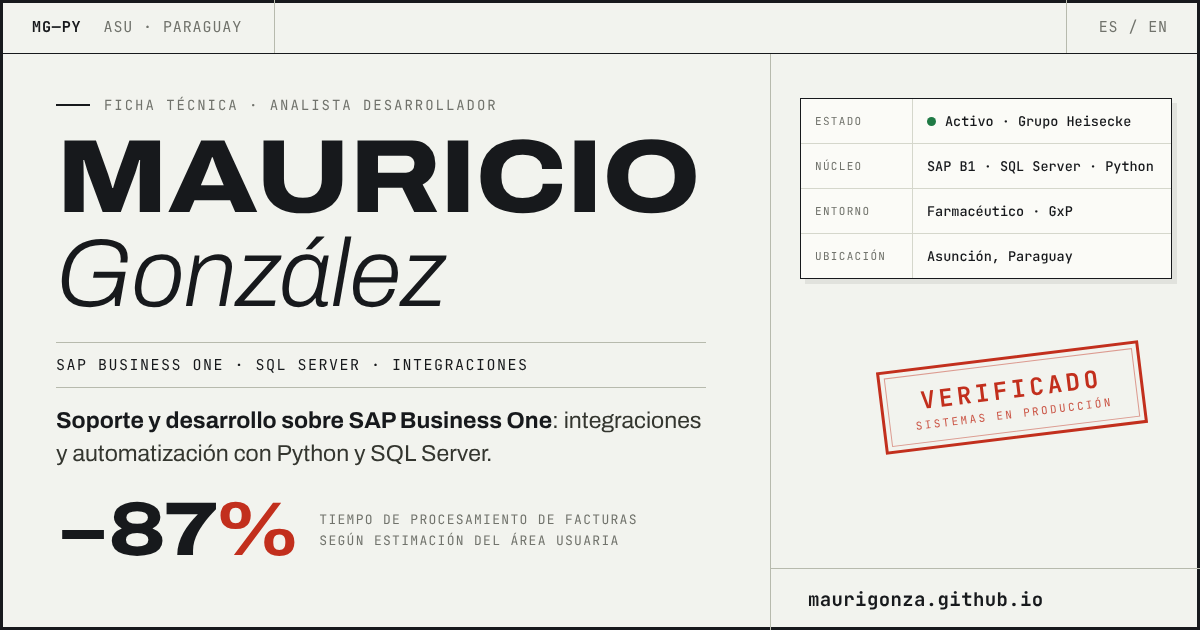
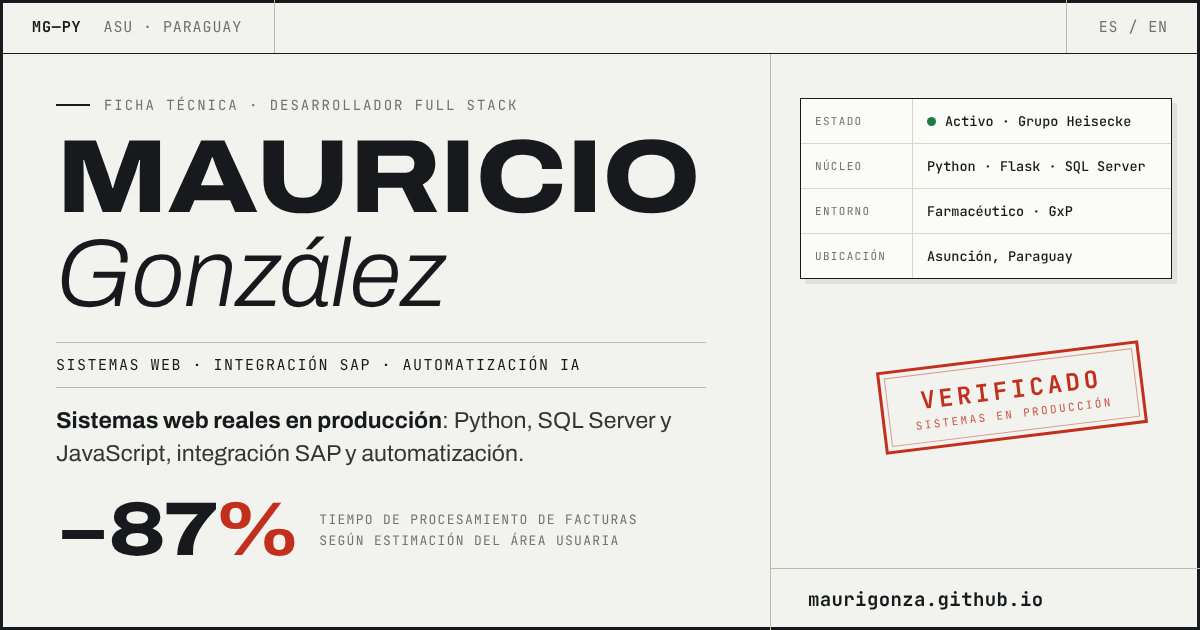
Presentar el portafolio como Desarrollador Full Stack, sin orientarlo a una oferta
La version anterior quedo inclinada a soporte SAP B1 por una oferta puntual; el portafolio tiene que mostrar el perfil general y lo especifico de cada oferta va en el correo. El perfil actual es desarrollo full stack, no infraestructura: Active Directory y seguridad quedan solo en el rol de Soporte TI. Se agrega el frontend real (HTML, CSS, JavaScript, Jinja) y la og-image pasa a v=3 para que no se use la anterior en cache.

Claude-Session: https://claude.ai/code/session_01SXFzjdiL9HggprZqT54Dce

diff --git a/index.html b/index.html
@@ -8,9 +8,9 @@
 
 <meta name="viewport" content="width=device-width, initial-scale=1.0">
 
-<title>Mauricio González — Analista Desarrollador · SAP Business One</title>
+<title>Mauricio González — Desarrollador Full Stack</title>
 
-<meta name="description" content="Analista Desarrollador en Asunción, Paraguay. Soporte y desarrollo sobre SAP Business One, SQL Server, integraciones y automatización con Python y n8n. Sistemas reales en producción.">
+<meta name="description" content="Desarrollador Full Stack en Asunción, Paraguay. Sistemas web en producción con Python, Flask, SQL Server y JavaScript: integración SAP, automatización con IA y despliegue con Docker.">
 
 
 
@@ -20,17 +20,17 @@
 
 <meta property="og:url" content="https://maurigonza.github.io/">
 
-<meta property="og:title" content="Mauricio González — Analista Desarrollador · SAP Business One">
+<meta property="og:title" content="Mauricio González — Desarrollador Full Stack">
 
-<meta property="og:description" content="Soporte y desarrollo sobre SAP Business One, integraciones y automatización. Sistemas reales en producción en una planta farmacéutica. SAP B1 · SQL Server · Python · n8n.">
+<meta property="og:description" content="Sistemas web reales en producción: backend en Python y SQL Server, interfaz web, integración SAP y automatización con IA. Python · Flask · SQL Server · JavaScript · n8n.">
 
-<meta property="og:image" content="https://maurigonza.github.io/og-image.png?v=2">
+<meta property="og:image" content="https://maurigonza.github.io/og-image.png?v=3">
 
 <meta property="og:image:width" content="1200">
 
 <meta property="og:image:height" content="630">
 
-<meta property="og:image:alt" content="Portafolio de Mauricio González — Analista Desarrollador · SAP Business One">
+<meta property="og:image:alt" content="Portafolio de Mauricio González — Desarrollador Full Stack">
 
 <meta property="og:locale" content="es_PY">
 
@@ -40,11 +40,11 @@
 
 <meta name="twitter:card" content="summary_large_image">
 
-<meta name="twitter:title" content="Mauricio González — Analista Desarrollador · SAP Business One">
+<meta name="twitter:title" content="Mauricio González — Desarrollador Full Stack">
 
-<meta name="twitter:description" content="Soporte y desarrollo sobre SAP Business One, integraciones y automatización. Sistemas reales en producción.">
+<meta name="twitter:description" content="Sistemas web reales en producción: Python, Flask, SQL Server, integración SAP y automatización con IA.">
 
-<meta name="twitter:image" content="https://maurigonza.github.io/og-image.png?v=2">
+<meta name="twitter:image" content="https://maurigonza.github.io/og-image.png?v=3">
 
 
 
@@ -646,17 +646,17 @@ body.en .en-txt{display:inline;}
 
       <div class="hero-main">
 
-        <div class="hero-eyebrow rev on"><span class="es-txt">Ficha técnica · Analista desarrollador</span><span class="en-txt">Technical dossier · Developer &amp; IT analyst</span></div>
+        <div class="hero-eyebrow rev on"><span class="es-txt">Ficha técnica · Desarrollador full stack</span><span class="en-txt">Technical dossier · Full stack developer</span></div>
 
         <h1 class="hero-name display rev on d1"><span id="scramble">Mauricio</span><br><span class="thin">González</span></h1>
 
-        <div class="hero-role rev on d2"><span class="es-txt">SAP Business One · SQL Server · Integraciones y automatización</span><span class="en-txt">SAP Business One · SQL Server · Integrations &amp; automation</span></div>
+        <div class="hero-role rev on d2"><span class="es-txt">Sistemas web · Integración SAP · Automatización IA</span><span class="en-txt">Web systems · SAP integration · AI automation</span></div>
 
         <p class="hero-desc rev on d2">
 
-          <span class="es-txt">Doy <strong>soporte y desarrollo sobre SAP Business One</strong>: integraciones, automatizaciones y consultas con Python y SQL Server, en <strong>sistemas reales en producción</strong> dentro de un entorno farmacéutico regulado. Actualmente en <strong>Grupo Heisecke / FUSQUIM</strong>, Paraguay.</span>
+          <span class="es-txt">Diseño, desarrollo y opero <strong>sistemas web reales en producción</strong>: del backend en Python y SQL Server a la interfaz, con integración SAP y automatización con IA, en un entorno farmacéutico regulado. Actualmente en <strong>Grupo Heisecke / FUSQUIM</strong>, Paraguay.</span>
 
-          <span class="en-txt">I provide <strong>SAP Business One support and development</strong>: integrations, automations and queries with Python and SQL Server, on <strong>real production systems</strong> in a regulated pharmaceutical environment. Currently at <strong>Grupo Heisecke / FUSQUIM</strong>, Paraguay.</span>
+          <span class="en-txt">I design, build and run <strong>real production web systems</strong>: from the Python and SQL Server backend to the interface, with SAP integration and AI-powered automation, in a regulated pharmaceutical environment. Currently at <strong>Grupo Heisecke / FUSQUIM</strong>, Paraguay.</span>
 
         </p>
 
@@ -694,7 +694,7 @@ body.en .en-txt{display:inline;}
 
             <div class="doc-k"><span class="es-txt">Núcleo</span><span class="en-txt">Core</span></div>
 
-            <div class="doc-v">SAP B1 · SQL Server · Python</div>
+            <div class="doc-v">Python · Flask · SQL Server</div>
 
           </div>
 
@@ -742,9 +742,9 @@ body.en .en-txt{display:inline;}
 
   <div class="strip-inner">
 
-    <span>Python / Flask</span><span>SQL Server</span><span>Docker</span><span>n8n</span><span>SAP Business One</span><span>Active Directory</span><span>NGINX</span><span>OpenAI API</span><span>GxP / FDA 21 CFR Part 11</span><span>SIFEN / eKuatia</span><span>Telegram Bot API</span>
+    <span>Python / Flask</span><span>SQL Server · T-SQL</span><span>JavaScript</span><span>HTML / CSS</span><span>Jinja</span><span>Docker</span><span>NGINX</span><span>SAP Business One</span><span>n8n</span><span>OpenAI API</span><span>SIFEN / eKuatia</span><span>Telegram Bot API</span>
 
-    <span>Python / Flask</span><span>SQL Server</span><span>Docker</span><span>n8n</span><span>SAP Business One</span><span>Active Directory</span><span>NGINX</span><span>OpenAI API</span><span>GxP / FDA 21 CFR Part 11</span><span>SIFEN / eKuatia</span><span>Telegram Bot API</span>
+    <span>Python / Flask</span><span>SQL Server · T-SQL</span><span>JavaScript</span><span>HTML / CSS</span><span>Jinja</span><span>Docker</span><span>NGINX</span><span>SAP Business One</span><span>n8n</span><span>OpenAI API</span><span>SIFEN / eKuatia</span><span>Telegram Bot API</span>
 
   </div>
 
@@ -778,9 +778,9 @@ body.en .en-txt{display:inline;}
 
       <div class="perfil-text rev-l">
 
-        <p><span class="es-txt">Soy <strong>Analista Desarrollador</strong> con más de <strong>3 años</strong> en TI, entre soporte, infraestructura y desarrollo. Mi diferencial: no me quedo en el mantenimiento — <span class="hl">construyo sistemas que la empresa usa todos los días</span>.</span><span class="en-txt">I'm a <strong>Developer &amp; IT Analyst</strong> with over <strong>3 years</strong> in IT, across support, infrastructure and development. My edge: I don't stop at maintenance — <span class="hl">I build systems the company relies on every day</span>.</span></p>
+        <p><span class="es-txt">Soy <strong>Desarrollador Full Stack</strong> con más de <strong>3 años</strong> en TI: vengo de soporte e infraestructura y hoy me dedico al desarrollo. Mi diferencial: no me quedo en el mantenimiento — <span class="hl">construyo sistemas que la empresa usa todos los días</span>.</span><span class="en-txt">I'm a <strong>Full Stack Developer</strong> with over <strong>3 years</strong> in IT: I came up through support and infrastructure and now focus on development. My edge: I don't stop at maintenance — <span class="hl">I build systems the company relies on every day</span>.</span></p>
 
-        <p><span class="es-txt">En <strong>Grupo Heisecke / FUSQUIM</strong> (planta farmacéutica en Luque) empecé en soporte TI y desde enero de 2026 trabajo como Analista Desarrollador: soporte y desarrollo sobre <strong>SAP Business One</strong> y SQL Server. Ahí desarrollé un <strong>sistema de aprobación de facturas</strong> integrado a SAP B1 que hoy corre en producción: lectura automática de PDF, QR y OCR, consulta de comprobantes en SIFEN/eKuatia y una revisión de seguridad con sus hallazgos corregidos.</span><span class="en-txt">At <strong>Grupo Heisecke / FUSQUIM</strong> (pharmaceutical plant in Luque) I started in IT support and since January 2026 I have worked as a Developer &amp; IT Analyst: support and development on <strong>SAP Business One</strong> and SQL Server. There I built an <strong>invoice approval system</strong> integrated with SAP B1, now running in production: automated PDF, QR and OCR reading, electronic-invoice lookup in SIFEN/eKuatia, and a security review with its findings fixed.</span></p>
+        <p><span class="es-txt">En <strong>Grupo Heisecke / FUSQUIM</strong> (planta farmacéutica en Luque) empecé en soporte TI y desde enero de 2026 trabajo como Desarrollador Full Stack. Ahí desarrollé un <strong>sistema de aprobación de facturas</strong> que hoy corre en producción: backend en Python/Flask y SQL Server, interfaz web, integración SAP, lectura automática de PDF, QR y OCR, consulta de comprobantes SIFEN y una revisión de seguridad con sus hallazgos corregidos.</span><span class="en-txt">At <strong>Grupo Heisecke / FUSQUIM</strong> (pharmaceutical plant in Luque) I started in IT support and since January 2026 I have worked as a Full Stack Developer. There I built an <strong>invoice approval system</strong> now running in production: Python/Flask and SQL Server backend, web interface, SAP integration, automated PDF, QR and OCR reading, SIFEN invoice lookup, and a security review with its findings fixed.</span></p>
 
         <p><span class="es-txt">Curso el 3.er año de <strong>Ingeniería en Informática</strong> en la UNIDA y en 2026 completé el programa Generative AI Advanced de AWS Entrena Paraguay.</span><span class="en-txt">I'm a 3rd-year <strong>Computer Engineering</strong> student at UNIDA, and in 2026 I completed the AWS Entrena Paraguay Generative AI Advanced program.</span></p>
 
@@ -792,9 +792,9 @@ body.en .en-txt{display:inline;}
 
           <div class="proto-code">CAP—01</div>
 
-          <div class="proto-t"><span class="es-txt">Soporte y desarrollo SAP B1</span><span class="en-txt">SAP B1 support &amp; development</span></div>
+          <div class="proto-t"><span class="es-txt">Desarrollo full stack</span><span class="en-txt">Full stack development</span></div>
 
-          <div class="proto-d"><span class="es-txt">Consultas y procedimientos almacenados en SQL Server, alertas por email disparadas por documentos de SAP, diagnóstico de procedimientos y add-ons en producción y validación de migraciones de versión.</span><span class="en-txt">SQL Server queries and stored procedures, email alerts triggered by SAP documents, troubleshooting of production procedures and add-ons, and version-upgrade validation.</span></div>
+          <div class="proto-d"><span class="es-txt">Aplicaciones web con backend en Python/Flask y SQL Server, interfaces en HTML, CSS, JavaScript y Jinja, y despliegue con Docker y NGINX.</span><span class="en-txt">Web apps with a Python/Flask and SQL Server backend, HTML, CSS, JavaScript and Jinja interfaces, deployed with Docker and NGINX.</span></div>
 
         </div>
 
@@ -802,9 +802,9 @@ body.en .en-txt{display:inline;}
 
           <div class="proto-code">CAP—02</div>
 
-          <div class="proto-t"><span class="es-txt">Desarrollo e integraciones</span><span class="en-txt">Development &amp; integrations</span></div>
+          <div class="proto-t"><span class="es-txt">Integraciones</span><span class="en-txt">Integrations</span></div>
 
-          <div class="proto-d"><span class="es-txt">Aplicaciones web Flask + SQL Server + Docker integradas a SAP Business One, SharePoint y SIFEN/eKuatia, con lectura automática de PDF, QR y OCR.</span><span class="en-txt">Flask + SQL Server + Docker web apps integrated with SAP Business One, SharePoint and SIFEN/eKuatia, with automated PDF, QR and OCR reading.</span></div>
+          <div class="proto-d"><span class="es-txt">SAP Business One, procedimientos almacenados y alertas automáticas en SQL Server, SharePoint, consulta de comprobantes SIFEN/eKuatia y lectura de PDF, QR y OCR.</span><span class="en-txt">SAP Business One, SQL Server stored procedures and automated alerts, SharePoint, SIFEN/eKuatia invoice lookup and PDF, QR and OCR reading.</span></div>
 
         </div>
 
@@ -812,9 +812,9 @@ body.en .en-txt{display:inline;}
 
           <div class="proto-code">CAP—03</div>
 
-          <div class="proto-t"><span class="es-txt">Automatización e infraestructura</span><span class="en-txt">Automation &amp; infrastructure</span></div>
+          <div class="proto-t"><span class="es-txt">Automatización &amp; IA</span><span class="en-txt">Automation &amp; AI</span></div>
 
-          <div class="proto-d"><span class="es-txt">Flujos n8n en producción, bots de Telegram y OpenAI API con notificaciones a email y planillas; Active Directory (GPOs, OUs, permisos) y seguridad perimetral y endpoint.</span><span class="en-txt">Production n8n workflows, Telegram bots and OpenAI API with notifications to email and spreadsheets; Active Directory (GPOs, OUs, permissions) and perimeter and endpoint security.</span></div>
+          <div class="proto-d"><span class="es-txt">Flujos n8n en producción, bots Telegram stateful, OpenAI API y notificaciones multicanal integradas a email y planillas.</span><span class="en-txt">Production n8n workflows, stateful Telegram bots, OpenAI API and multi-channel notifications wired to email and spreadsheets.</span></div>
 
         </div>
 
@@ -852,7 +852,7 @@ body.en .en-txt{display:inline;}
 
       <div class="stack-col">
 
-        <div class="stack-cat"><span class="es-txt">Desarrollo</span><span class="en-txt">Development</span></div>
+        <div class="stack-cat"><span class="es-txt">Backend</span><span class="en-txt">Backend</span></div>
 
         <ul>
 
@@ -860,11 +860,47 @@ body.en .en-txt{display:inline;}
 
           <li class="core">SQL Server · T-SQL</li>
 
-          <li>Java</li>
+          <li>REST APIs</li>
 
           <li>Git / GitHub</li>
 
-          <li>REST APIs</li>
+          <li>Java</li>
+
+        </ul>
+
+      </div>
+
+      <div class="stack-col">
+
+        <div class="stack-cat"><span class="es-txt">Frontend</span><span class="en-txt">Frontend</span></div>
+
+        <ul>
+
+          <li class="core">HTML / CSS</li>
+
+          <li class="core">JavaScript</li>
+
+          <li class="core">Jinja</li>
+
+        </ul>
+
+      </div>
+
+      <div class="stack-col">
+
+        <div class="stack-cat"><span class="es-txt">Integración &amp; despliegue</span><span class="en-txt">Integration &amp; deployment</span></div>
+
+        <ul>
+
+          <li class="core">SAP Business One API</li>
+
+          <li class="core">SIFEN / eKuatia</li>
+
+          <li class="core">Docker · NGINX</li>
+
+          <li>Linux · Windows Server</li>
+
+          <li>AWS</li>
 
         </ul>
 
@@ -885,46 +921,6 @@ body.en .en-txt{display:inline;}
           <li>OCR</li>
 
           <li>Power BI</li>
-
-        </ul>
-
-      </div>
-
-      <div class="stack-col">
-
-        <div class="stack-cat"><span class="es-txt">Infraestructura</span><span class="en-txt">Infrastructure</span></div>
-
-        <ul>
-
-          <li class="core">Active Directory</li>
-
-          <li class="core">Docker · NGINX</li>
-
-          <li><span class="es-txt">Seguridad endpoint</span><span class="en-txt">Endpoint security</span></li>
-
-          <li>Linux · Windows Server</li>
-
-          <li><span class="es-txt">Seguridad perimetral</span><span class="en-txt">Perimeter security</span></li>
-
-        </ul>
-
-      </div>
-
-      <div class="stack-col">
-
-        <div class="stack-cat"><span class="es-txt">Negocio &amp; compliance</span><span class="en-txt">Business &amp; compliance</span></div>
-
-        <ul>
-
-          <li class="core">SAP Business One</li>
-
-          <li class="core">SIFEN / eKuatia</li>
-
-          <li>GxP · FDA 21 CFR 11</li>
-
-          <li>Office 365</li>
-
-          <li>AWS</li>
 
         </ul>
 
@@ -972,19 +968,17 @@ body.en .en-txt{display:inline;}
 
           <div class="exp-co">Grupo Heisecke &amp; Cía. / FUSQUIM</div>
 
-          <div class="exp-ro"><span class="es-txt">Analista Desarrollador</span><span class="en-txt">Developer &amp; IT Analyst</span></div>
+          <div class="exp-ro"><span class="es-txt">Desarrollador Full Stack</span><span class="en-txt">Full Stack Developer</span></div>
 
           <ul class="exp-ul">
 
-            <li><span class="es-txt">Desarrollo y operación de un <strong>sistema de aprobación de facturas</strong> integrado a SAP Business One, SharePoint y SIFEN/eKuatia, en producción diaria — según el área usuaria, redujo el tiempo de procesamiento un 87%.</span><span class="en-txt">Built and operate an <strong>invoice approval system</strong> integrated with SAP Business One, SharePoint and SIFEN/eKuatia, in daily production — cut processing time by 87%, as estimated by the user team.</span></li>
+            <li><span class="es-txt">Desarrollo full stack y operación de un <strong>sistema de aprobación de facturas</strong> (Python/Flask, SQL Server, JavaScript) integrado a SAP Business One, SharePoint y SIFEN/eKuatia, en producción diaria — según el área usuaria, redujo el tiempo de procesamiento un 87%.</span><span class="en-txt">Full stack development and operation of an <strong>invoice approval system</strong> (Python/Flask, SQL Server, JavaScript) integrated with SAP Business One, SharePoint and SIFEN/eKuatia, in daily production — cut processing time by 87%, as estimated by the user team.</span></li>
 
-            <li><span class="es-txt">Validación de la migración de <strong>SAP Business One 9.2 → 10.0</strong>: checklist de pruebas previas a producción e informes formales por módulo, en coordinación con proveedores externos.</span><span class="en-txt"><strong>SAP Business One 9.2 → 10.0</strong> upgrade validation: pre-production test checklist and formal per-module test reports, coordinated with external vendors.</span></li>
+            <li><span class="es-txt">Validación de la migración de SAP Business One 9.2 → 10.0: checklist de pruebas previas a producción e informes formales por módulo, en coordinación con proveedores externos.</span><span class="en-txt">SAP Business One 9.2 → 10.0 upgrade validation: pre-production test checklist and formal per-module test reports, coordinated with external vendors.</span></li>
 
             <li><span class="es-txt">Procedimientos almacenados en SQL Server que envían alertas por email al registrarse documentos en SAP, con destinatarios según el tipo de compra.</span><span class="en-txt">SQL Server stored procedures that send email alerts when documents are posted in SAP, routed by purchase type.</span></li>
 
-            <li><span class="es-txt">Diagnóstico de procedimientos almacenados y add-ons de SAP en producción (órdenes de fabricación), junto al proveedor.</span><span class="en-txt">Troubleshooting of SAP stored procedures and add-ons in production (production orders), together with the vendor.</span></li>
-
-            <li><span class="es-txt">Soporte a usuarios de SAP Business One y a sistemas de planta vinculados a órdenes de trabajo.</span><span class="en-txt">Support for SAP Business One users and plant systems tied to work orders.</span></li>
+            <li><span class="es-txt">Soporte de sistemas en producción: SAP Business One, SQL Server y Docker, incluido el diagnóstico de incidencias junto a proveedores.</span><span class="en-txt">Production systems support: SAP Business One, SQL Server and Docker, including troubleshooting with vendors.</span></li>
 
           </ul>
 
@@ -1098,11 +1092,11 @@ body.en .en-txt{display:inline;}
 
         <div class="proj-code">SYS—01</div>
 
-        <div class="proj-name"><span class="es-txt">Aprobación de<br>facturas · SAP B1</span><span class="en-txt">Invoice<br>approval · SAP B1</span></div>
+        <div class="proj-name"><span class="es-txt">Aprobación<br>de facturas</span><span class="en-txt">Invoice<br>approval system</span></div>
 
-        <p class="proj-desc"><span class="es-txt">Plataforma web de aprobación de facturas de proveedores para Grupo Heisecke / FUSQUIM. Autenticación multirrol, flujo de aprobación en dos niveles, lectura automática de PDF, QR y OCR, integración con <strong>SAP Business One</strong> y SharePoint, y consulta de comprobantes electrónicos en SIFEN/eKuatia. Pasó una <strong>revisión de seguridad</strong> con sus hallazgos corregidos (race conditions, SSRF, IDOR) y tiene protección CSRF. En desarrollo: módulo de recepción de mercadería en depósito.</span><span class="en-txt">Web-based supplier invoice approval platform for Grupo Heisecke / FUSQUIM. Multi-role auth, two-level approval workflow, automated PDF, QR and OCR reading, integration with <strong>SAP Business One</strong> and SharePoint, and electronic-invoice lookup in SIFEN/eKuatia. Went through a <strong>security review</strong> with its findings fixed (race conditions, SSRF, IDOR) and has CSRF protection. In progress: warehouse goods-receipt module.</span></p>
+        <p class="proj-desc"><span class="es-txt">Plataforma web de aprobación de facturas de proveedores para Grupo Heisecke / FUSQUIM. Autenticación multirrol, flujo de aprobación en dos niveles, lectura automática de PDF, QR y OCR, integración con SAP Business One y SharePoint, y consulta de comprobantes electrónicos en SIFEN/eKuatia. Pasó una <strong>revisión de seguridad</strong> con sus hallazgos corregidos (race conditions, SSRF, IDOR) y tiene protección CSRF. En desarrollo: módulo de recepción de mercadería en depósito.</span><span class="en-txt">Web-based supplier invoice approval platform for Grupo Heisecke / FUSQUIM. Multi-role auth, two-level approval workflow, automated PDF, QR and OCR reading, integration with SAP Business One and SharePoint, and electronic-invoice lookup in SIFEN/eKuatia. Went through a <strong>security review</strong> with its findings fixed (race conditions, SSRF, IDOR) and has CSRF protection. In progress: warehouse goods-receipt module.</span></p>
 
-        <div class="ptags"><span class="ptag">Python / Flask</span><span class="ptag">SQL Server</span><span class="ptag">Docker</span><span class="ptag">NGINX</span><span class="ptag">SAP B1 API</span><span class="ptag">OCR</span><span class="ptag">SIFEN</span></div>
+        <div class="ptags"><span class="ptag">Python / Flask</span><span class="ptag">SQL Server</span><span class="ptag">JavaScript</span><span class="ptag">Docker</span><span class="ptag">NGINX</span><span class="ptag">SAP B1 API</span><span class="ptag">OCR</span><span class="ptag">SIFEN</span></div>
 
       </div>
 
